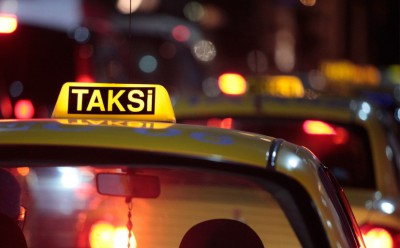
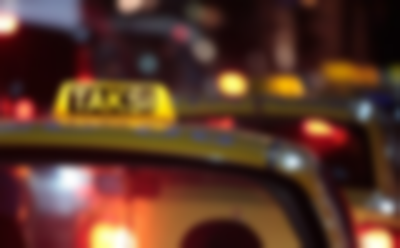
Ana ekran arama kutusu yapıldı. Ana ekran Son 5 post yapıldı. Ana ekran responsive.

diff --git a/TaxiRateApp.Web.UI/wwwroot/Views/Home/css/posts-table.css b/TaxiRateApp.Web.UI/wwwroot/Views/Home/css/posts-table.css
@@ -1,0 +1,82 @@
+.content {
+    background-color: #3c373e;
+    border-radius: 30px;
+    margin-top:200px;
+}
+
+.custom-table thead tr, .custom-table thead th {
+    padding-bottom: 30px;
+    border-top: none;
+    border-bottom: none !important;
+    color: #fff;
+    font-size: 11px;
+    text-transform: uppercase;
+    letter-spacing: .2rem;
+}
+
+.custom-table tbody th, .custom-table tbody td {
+    color: #777;
+    font-weight: 400;
+    padding-bottom: 20px;
+    padding-top: 20px;
+    font-weight: 300;
+    border: none;
+    -webkit-transition: .3s all ease;
+    -o-transition: .3s all ease;
+    transition: .3s all ease;
+}
+
+    .custom-table tbody th small, .custom-table tbody td small {
+        color: rgba(255, 255, 255, 0.3);
+        font-weight: 300;
+    }
+
+    .custom-table tbody th a, .custom-table tbody td a {
+        color: rgba(255, 255, 255, 0.3);
+        text-decoration:none;
+    }
+
+    .custom-table tbody th .more, .custom-table tbody td .more {
+        color: rgba(255, 255, 255, 0.3);
+        font-size: 11px;
+        font-weight: 900;
+        text-transform: uppercase;
+        letter-spacing: .2rem;
+    }
+
+.custom-table tbody tr {
+    -webkit-transition: .3s all ease;
+    -o-transition: .3s all ease;
+    transition: .3s all ease;
+}
+
+    .custom-table tbody tr:hover td, .custom-table tbody tr:focus td {
+        color: #fff;
+    }
+
+        .custom-table tbody tr:hover td a, .custom-table tbody tr:focus td a {
+            color: #fdd114;
+        }
+
+        .custom-table tbody tr:hover td .more, .custom-table tbody tr:focus td .more {
+            color: #fdd114;
+        }
+
+        .custom-table tbody tr:hover td .more-star, .custom-table tbody tr:focus td i .more-star {
+            color: #fdd114;
+        }
+
+.custom-table .td-box-wrap {
+    padding: 0;
+}
+
+.custom-table .box {
+    background: #fff;
+    border-radius: 4px;
+    margin-top: 15px;
+    margin-bottom: 15px;
+}
+
+    .custom-table .box td, .custom-table .box th {
+        border: none !important;
+    }

diff --git a/TaxiRateApp.Web.UI/wwwroot/Views/Home/css/home.css b/TaxiRateApp.Web.UI/wwwroot/Views/Home/css/home.css
@@ -2,49 +2,46 @@
     position: relative;
     background-size: cover;
     padding-top: 1rem;
-    padding-bottom: 8rem;
-    margin-top: 3rem;
+    margin-top: 3.2rem;
     border-radius: 10px;
 }
 
-    header.masthead:before {
-        content: "";
-        position: absolute;
-        height: 100%;
-        width: 100%;
-        top: 0;
-        left: 0;
-        opacity: 0.5;
-    }
-
-    
-
-@media (min-width: 768px) {
-    header.masthead {
-        padding-top: 1rem;
-        padding-bottom: 1rem;
-    }
-
-        header.masthead h1, header.masthead .h1 {
-            font-size: 3rem;
-        }
+.plate {
+    display: block;
+    margin: .5em auto;
+    border: none;
+    padding: 0;
+    width: 10.5ch;
+    background: white;
+    font: 3ch droid sans mono, consolas, monospace;
+    letter-spacing: 0.5ch;
+    background: repeating-linear-gradient(90deg, dimgrey 0, dimgrey 1ch, transparent 0, transparent 1.5ch) 0 100%/10ch 2px no-repeat;
 }
 
-body{
-    height:2000px
-}
+    .plate:focus {
+        outline: none;
+        color: dodgerblue;
+    }
 
+
+body {
+    height: 2000px
+}
 
 .background-image {
     z-index: 1;
     background-image: url("../img/HomeBanner.png");
-    background-position:center center;
-    -webkit-filter: blur(5px);
-    -moz-filter: blur(5px);
-    -o-filter: blur(5px);
-    -ms-filter: blur(5px);
-    filter: blur(5px);
+    background-position: center center;
     background-size: cover;
     background-repeat: no-repeat;
-    height:200px
+    position: relative;
+    border-radius: 1rem !important
+}
+
+.centered {
+    display: flex;
+    justify-content: center;
+    align-items: center;
+    flex-wrap: nowrap;
+    overflow: hidden;
 }

diff --git a/TaxiRateApp.Web.UI/wwwroot/Views/Home/css/searcharea.css b/TaxiRateApp.Web.UI/wwwroot/Views/Home/css/searcharea.css
@@ -1,0 +1,59 @@
+.search-area {
+    padding: 1px;
+    border-radius: 10px;
+    overflow: hidden;
+    width: 380px;
+}
+
+.CardInner {
+    padding: 4px 4px;
+    background-color: #e2e9f4;
+}
+
+
+.Icon {
+    min-width: 46px;
+    min-height: 46px;
+    display: flex;
+    align-items: center;
+    justify-content: center;
+    border-radius: 10px;
+    margin-right: 12px;
+    box-shadow: -2px -2px 6px rgba(255, 255, 255, 0.6), 2px 2px 12px #c8d8e7;
+    cursor: pointer;
+}
+
+    .Icon svg {
+        transform: translate(-1px, -1px);
+    }
+
+.InputContainer {
+    width: 100%;
+}
+
+.InputContainer {
+    --top-shadow: inset 1px 1px 3px #c5d4e3, inset 2px 2px 6px #c5d4e3;
+    --bottom-shadow: inset -2px -2px 4px rgba(255,255,255, .7);
+    position: relative;
+    border-radius: 10px;
+    overflow: hidden;
+}
+
+    .InputContainer:before, .InputContainer:after {
+        left: 0;
+        top: 0;
+        display: block;
+        content: "";
+        pointer-events: none;
+        width: 100%;
+        height: 100%;
+        position: absolute;
+    }
+
+    .InputContainer:before {
+        box-shadow: var(--bottom-shadow);
+    }
+
+    .InputContainer:after {
+        box-shadow: var(--top-shadow);
+    }

diff --git a/TaxiRateApp.Web/wwwroot/TablePartialStyle/css/style.css b/TaxiRateApp.Web/wwwroot/TablePartialStyle/css/style.css
@@ -20,7 +20,7 @@ a {
 .content {
     position: relative;
     margin: auto;
-    background-color: #3c373e;
+    background-color: #3c373e !important;
     border-radius:30px;
     box-shadow:inherit;
 }

diff --git a/TaxiRateApp.DataAccess/Concrete/EntityFramework/Context/TaxiRateAppContext.cs b/TaxiRateApp.DataAccess/Concrete/EntityFramework/Context/TaxiRateAppContext.cs
@@ -121,6 +121,13 @@ namespace TaxiRateApp.DataAccess.Concrete.EntityFramework.Context
                     .HasColumnName("Post_CreatedDate")
                     .HasColumnType("datetime");
 
+                entity.Property(e => e.Post_Title)
+                    .IsRequired()
+                    .HasColumnName("Post_Title")
+                    .HasColumnType("varchar(55)")
+                    .HasCharSet("utf8")
+                    .HasCollation("utf8_general_ci");
+
                 entity.Property(e => e.Post_Description)
                     .IsRequired()
                     .HasColumnName("Post_Description")

diff --git a/TaxiRateApp.Web.UI/Controllers/HomeController.cs b/TaxiRateApp.Web.UI/Controllers/HomeController.cs
@@ -1,12 +1,17 @@
 using Microsoft.AspNetCore.Mvc;
+using TaxiRateApp.Business.Concrete;
+using TaxiRateApp.DataAccess.Concrete.EntityFramework;
 
 namespace TaxiRateApp.Web.UI.Controllers
 {
     public class HomeController : Controller
     {
+        PostsManager postsManager = new PostsManager(new EfPostsDal());
+
         public IActionResult Index()
         {
-            return View();
+            var result = postsManager.GetPostsHomeScreen();
+            return View(result);
         }
     }
 }

diff --git a/TaxiRateApp.DataAccess/Concrete/EntityFramework/EfPostsDal.cs b/TaxiRateApp.DataAccess/Concrete/EntityFramework/EfPostsDal.cs
@@ -26,7 +26,8 @@ namespace TaxiRateApp.DataAccess.Concrete.EntityFramework
                         Post_Description = x.Post_Description,
                         Post_Plate = x.Post_Plate,
                         Post_Stars = x.Post_Stars,
-                        Post_LikeCount = x.Post_LikeCount
+                        Post_LikeCount = x.Post_LikeCount,
+                        Post_Title = x.Post_Title
                     });
                     return result.ToList();
                 }

diff --git a/TaxiRateApp.Entities/Concrete/Posts.cs b/TaxiRateApp.Entities/Concrete/Posts.cs
@@ -10,6 +10,7 @@ namespace TaxiRateApp.Entities.Concrete
         public int User_Id { get; set; }
         public int City_Id { get; set; }
         public string Post_Plate { get; set; }
+        public string Post_Title { get; set; }
         public string Post_Description { get; set; }
         public int? Post_Stars { get; set; }
         public int? Post_LikeCount { get; set; }
